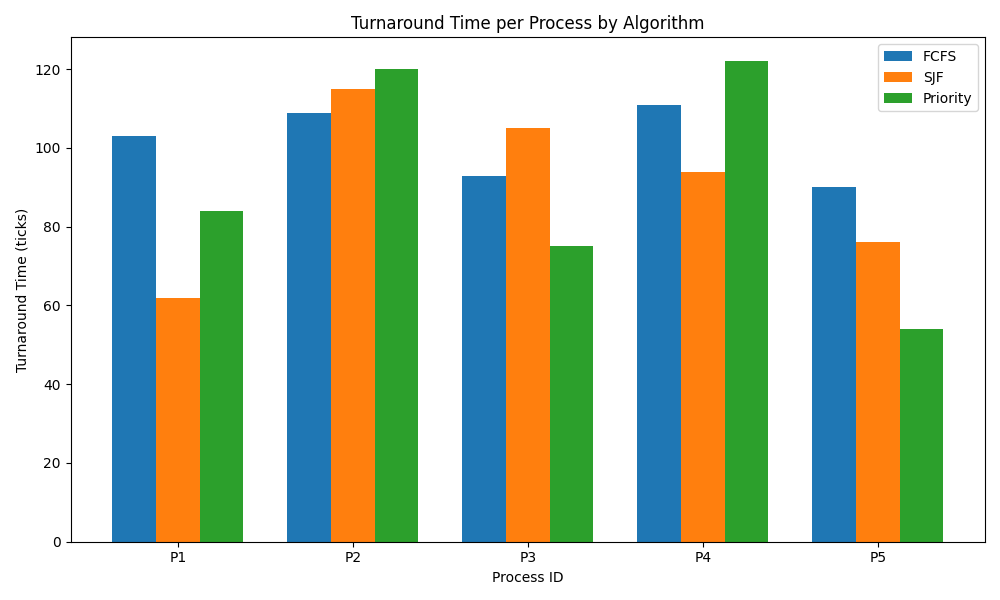
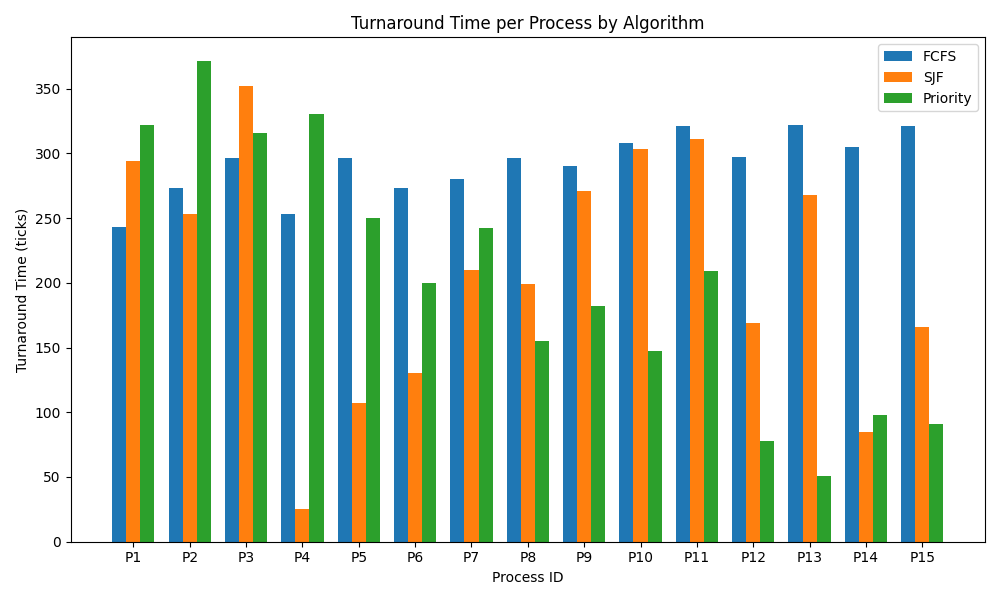
Added processes

diff --git a/main.py b/main.py
@@ -3,13 +3,23 @@ from scheduler import fcfs, sjf, priority
 from simulation import run_simulation
 from stats import Stats
 
-# Create processes once
+# Create processes
 processes = [
     Process(pid=1, arrival_time=0, priority=3),
     Process(pid=2, arrival_time=2, priority=1),
     Process(pid=3, arrival_time=4, priority=4),
     Process(pid=4, arrival_time=6, priority=2),
     Process(pid=5, arrival_time=8, priority=5),
+    Process(pid=6, arrival_time=10, priority=7),
+    Process(pid=7, arrival_time=12, priority=6),
+    Process(pid=8, arrival_time=14, priority=10),
+    Process(pid=9, arrival_time=16, priority=9),
+    Process(pid=10, arrival_time=18, priority=11),
+    Process(pid=11, arrival_time=20, priority=8),
+    Process(pid=12, arrival_time=22, priority=15),
+    Process(pid=13, arrival_time=24, priority=14),
+    Process(pid=14, arrival_time=26, priority=12),
+    Process(pid=15, arrival_time=28, priority=13),
 ]
 
 stats = Stats()